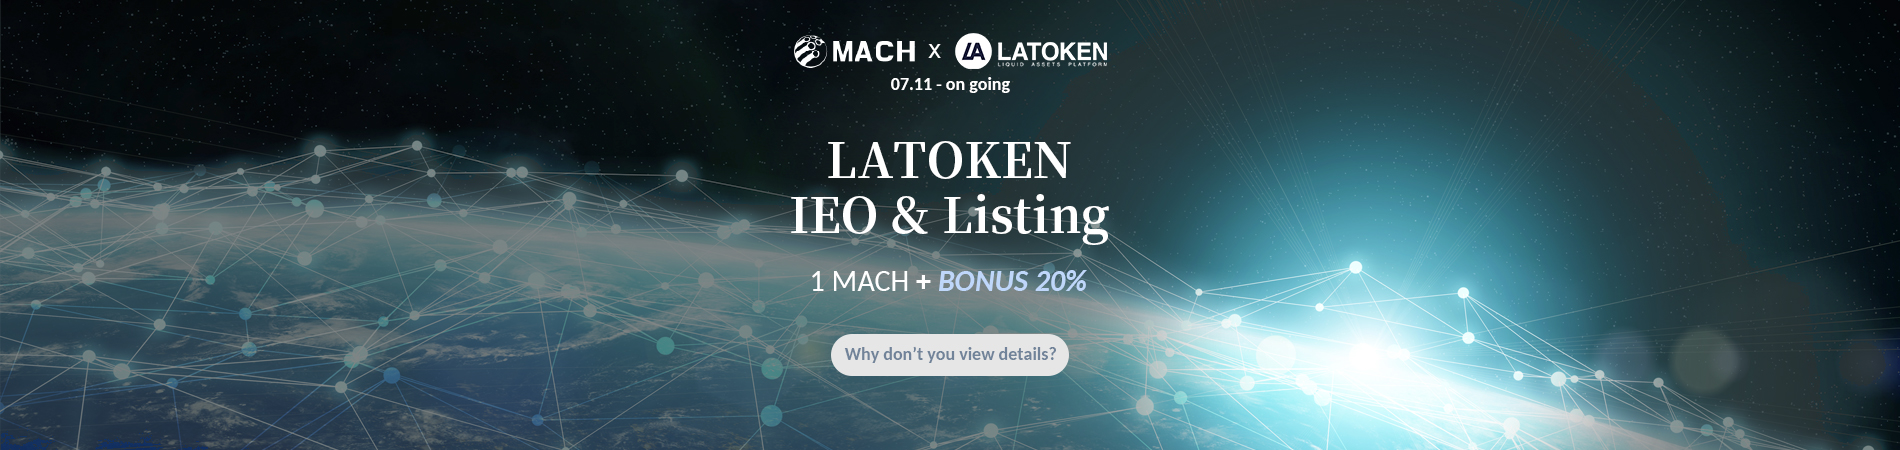
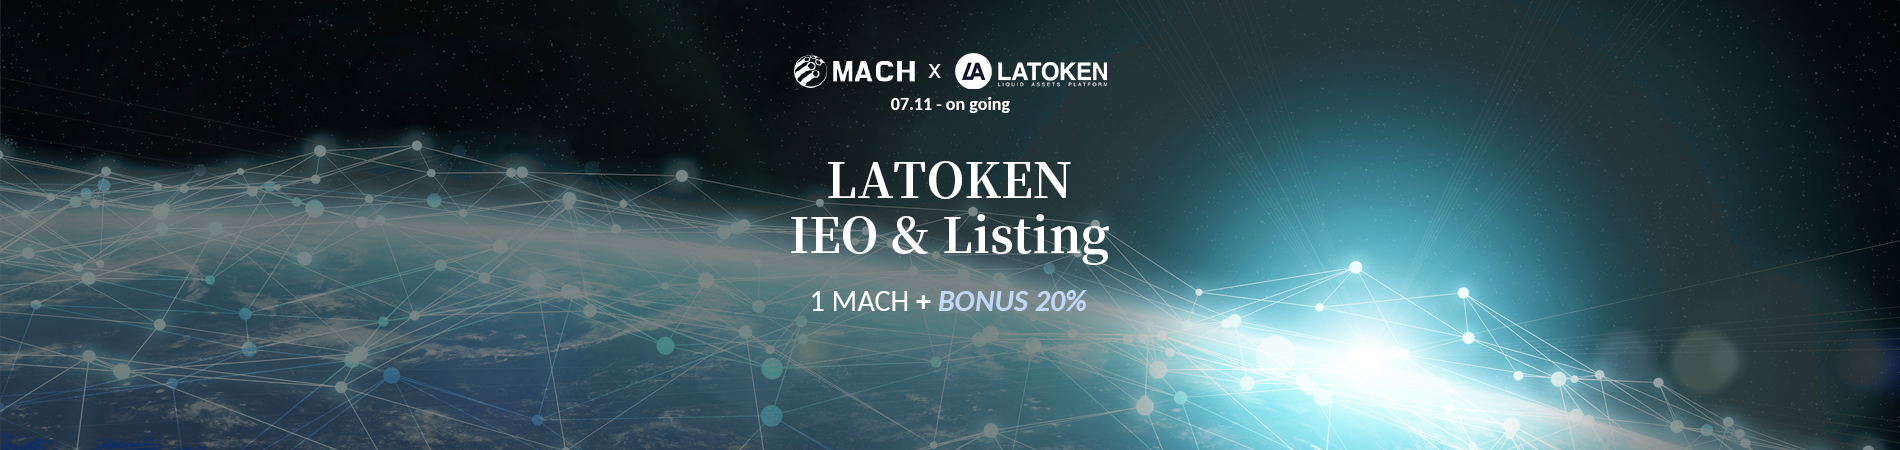
[메인] 비주얼 이미지 변경 [fix] 트랜스폼 고정

Changed region(s): [[0.4037, 0.3111, 0.59, 0.84], [0.4037, 0.0622, 0.59, 0.2489]]

diff --git a/public/static/css/common.css b/public/static/css/common.css
@@ -300,7 +300,7 @@ select{-webkit-appearance: none; -webkit-border-radius: 0px; -moz-appearance: no
 /* --slick Layout setting-- */
 .nav_slick_visual{position: absolute; bottom: 0; z-index: 3; width: 1200px; height: 60px; left: 50%; margin-left: -600px; overflow: hidden;}
 .nav_slick_visual .slick-list{height: 60px;}
-.nav_slick_visual .slick-list .slick-track{height: 60px;}
+.nav_slick_visual .slick-list .slick-track{height: 60px; transform: none !important;}
 .nav_slick_visual .nav_text_box{margin-right: 1px; display: inline-block; height: 60px; line-height: 60px; text-align: center; font-size: 16px; cursor: pointer; color: #ffffff; background: rgba(0, 0, 0, 0.6)}
 .nav_slick_visual .nav_text_box .nav_text_box_inner{position: relative; height: 5px; top: 55px;}
 .nav_slick_visual .nav_text_box .nav_text_box_inner em{position: relative; z-index: 10; top: -55px;}

diff --git a/public/static/css/colgroup.css b/public/static/css/colgroup.css
@@ -10,7 +10,7 @@
 */
 
 /********** 메인페이지 **********/
-.colgroup_main_gameitem .col4_1{width: 50px;}
+.colgroup_main_gameitem .col4_1{width: 60px;}
 .colgroup_main_gameitem .col4_2{width: 130px;}
 .colgroup_main_gameitem .col4_3{}
 .colgroup_main_gameitem .col4_4{width: 100px;}
